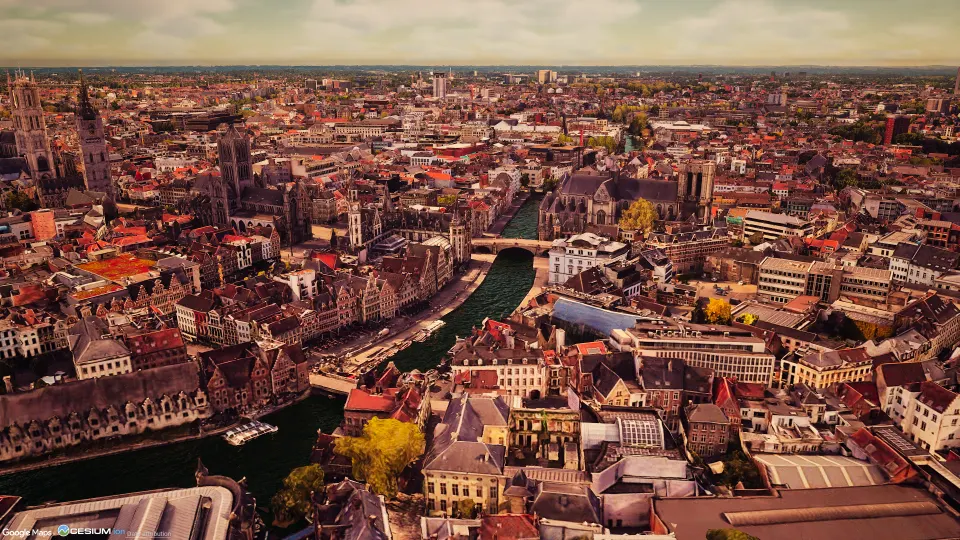
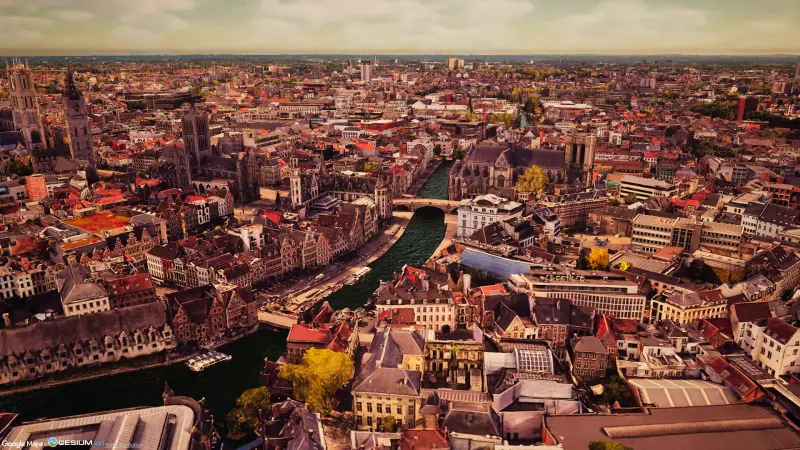
Compress new shots further

diff --git a/index.html b/index.html
@@ -261,7 +261,7 @@ a.city.next:hover{border-color:var(--ink);background:rgba(16,36,43,.05)}
     </div>
     <ul class="strip" tabindex="0" aria-label="Cities in City Tour Simulator, scroll sideways">
       <li><span class="city"><img src="/img/city-sf.webp" width="480" height="270" loading="lazy" alt="San Francisco from above"><b>San Francisco<small>Golden Gate to Twin Peaks</small></b></span></li>
-      <li><span class="city"><img src="/img/city-ghent.webp" width="960" height="540" loading="lazy" alt="Ghent at golden hour from above, with the Graslei, the Leie and the church towers"><b>Ghent<small>Graslei and the three towers</small></b></span></li>
+      <li><span class="city"><img src="/img/city-ghent.webp" width="800" height="450" loading="lazy" alt="Ghent at golden hour from above, with the Graslei, the Leie and the church towers"><b>Ghent<small>Graslei and the three towers</small></b></span></li>
       <li><span class="city"><img src="/img/city-nyc.webp" width="480" height="270" loading="lazy" alt="New York from above"><b>New York</b></span></li>
       <li><span class="city"><img src="/img/city-paris.webp" width="480" height="270" loading="lazy" alt="Paris from above"><b>Paris</b></span></li>
       <li><span class="city"><img src="/img/city-london.webp" width="480" height="270" loading="lazy" alt="London from above"><b>London</b></span></li>
